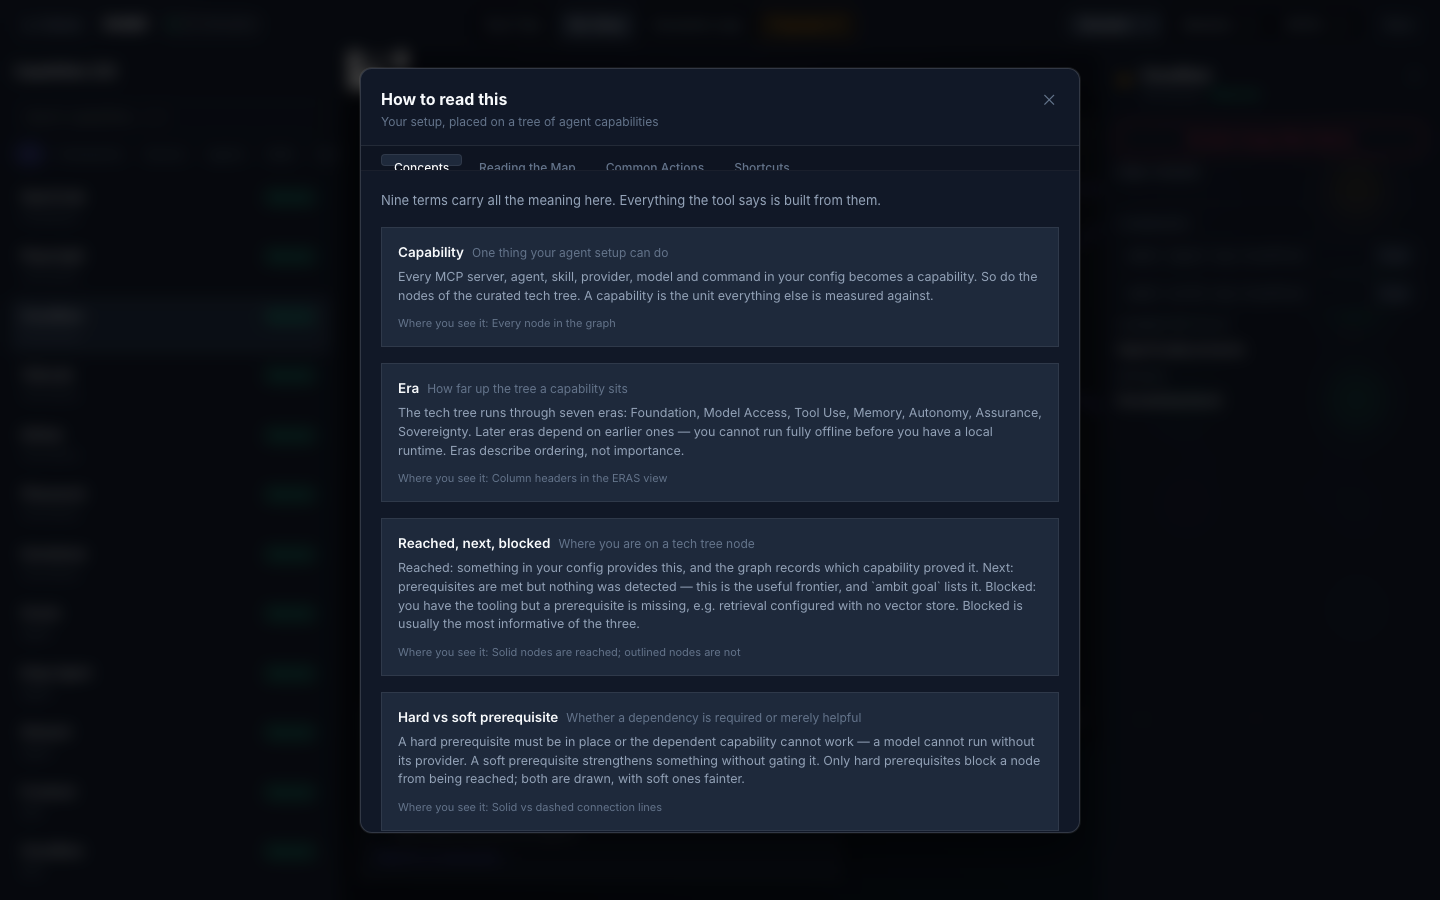
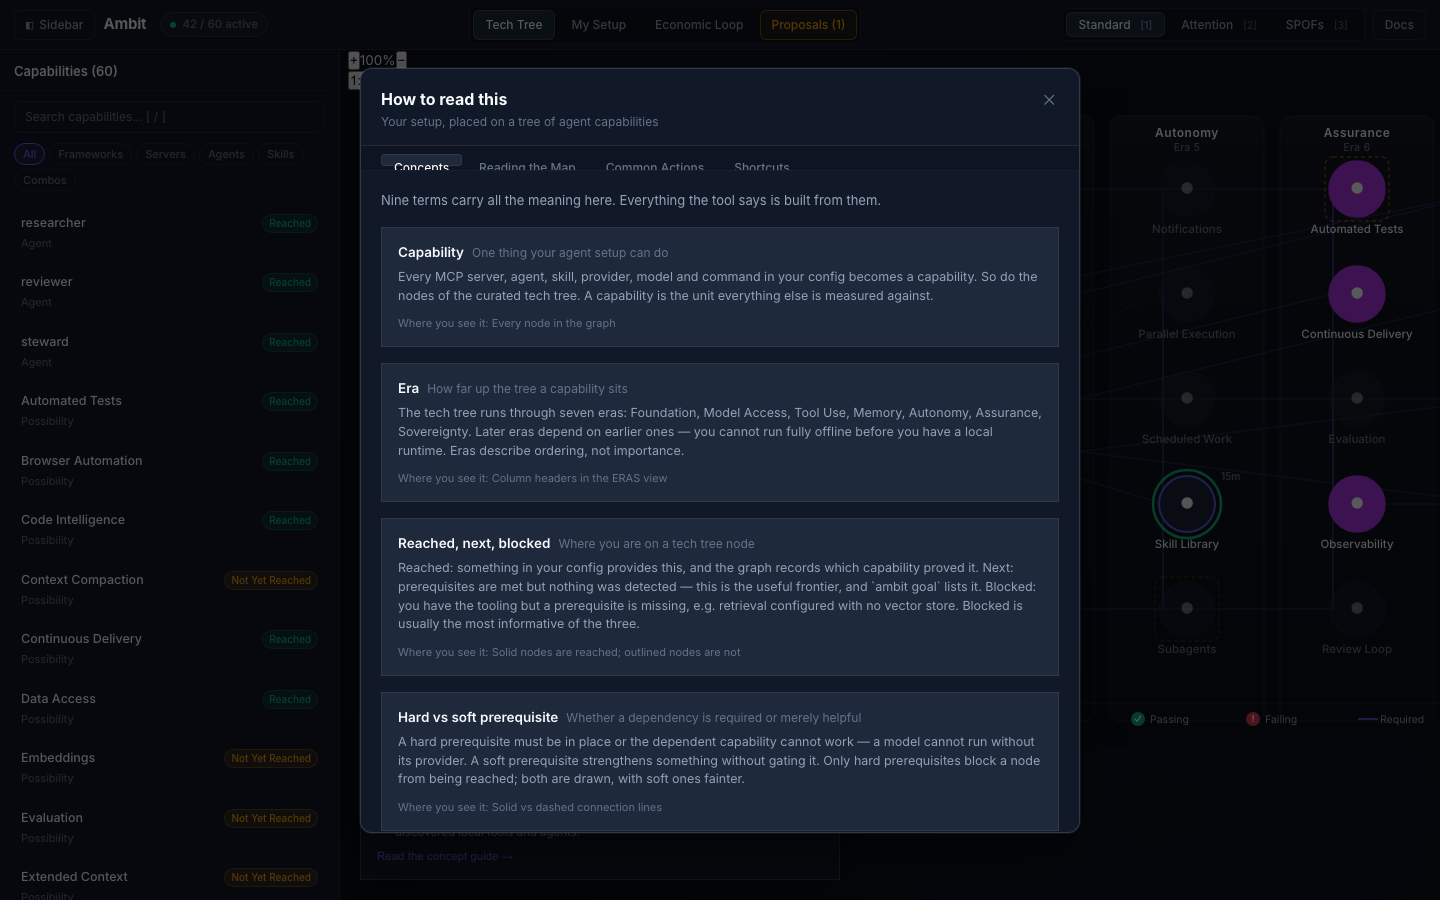
Add My Setup screenshot; update capture script
Insert the My Setup screenshot into the README and replace several demo assets (screenshots & gifs). Tweak scripts/capture-browser-shots.ts to stop using a temporary Chrome profile (remove tmpdir/mkdtemp/rmSync) and add a comment explaining the change to avoid Chrome hanging. Also add a dedicated capture for ?demo=1&view=config and renumbered comments for the other shots.

diff --git a/scripts/capture-browser-shots.ts b/scripts/capture-browser-shots.ts
@@ -1,6 +1,5 @@
 import { spawn, execSync } from 'node:child_process';
-import { existsSync, copyFileSync, mkdtempSync, rmSync } from 'node:fs';
-import { tmpdir } from 'node:os';
+import { existsSync, copyFileSync } from 'node:fs';
 import { join } from 'node:path';
 
 const CHROME_PATH = '/Applications/Google Chrome.app/Contents/MacOS/Google Chrome';
@@ -33,7 +32,11 @@ async function captureShot(
   delayMs = 2500
 ) {
   console.log(`📸 Capturing: ${outFile} (${width}x${height})...`);
-  const tmpProfile = mkdtempSync(join(tmpdir(), 'ambit-chrome-'));
+  // Deliberately no --user-data-dir: Chrome writes the screenshot and then
+  // never exits when pointed at a fresh profile, so every shot would burn the
+  // timeout below and land in the fallback, overwriting a good capture with a
+  // pre-render one. Sequential runs on the default profile do not collide, and
+  // the bytes come out identical either way.
   try {
     const cmd = `"${CHROME_PATH}" --headless=new --disable-gpu --no-sandbox --no-first-run --hide-scrollbars --window-size=${width},${height} --virtual-time-budget=${delayMs} --timeout=15000 --screenshot="${outFile}" "${url}"`;
     execSync(cmd, { stdio: 'pipe', timeout: 20000 });
@@ -44,10 +47,6 @@ async function captureShot(
     try {
       execSync(fallbackCmd, { stdio: 'pipe', timeout: 15000 });
       console.log(`✅ Saved ${outFile} via fallback`);
-    } catch {}
-  } finally {
-    try {
-      rmSync(tmpProfile, { recursive: true, force: true });
     } catch {}
   }
 }
@@ -81,11 +80,18 @@ async function main() {
       3500
     );
 
-    // No My Setup capture: ?demo=1 short-circuits both loaders, so the tab
-    // only moves the nav highlight — the canvas stays the seeded demo graph.
-    // A second shot of it was a pixel-for-pixel duplicate of screenshot-tree.
+    // 2. My Setup (1440x900). ?view=config is load-bearing: ?demo=1 alone now
+    // lands on the tree, and this shot was a pixel-for-pixel duplicate of
+    // screenshot-tree back when the two tabs shared one seeded dataset.
+    await captureShot(
+      `${BASE_URL}/?demo=1&view=config`,
+      join(ASSETS_DIR, 'screenshot-config.png'),
+      1440,
+      900,
+      3500
+    );
 
-    // 2. Docs Modal (1440x900)
+    // 3. Docs Modal (1440x900)
     await captureShot(
       `${BASE_URL}/?demo=1&docs=open`,
       join(ASSETS_DIR, 'screenshot-docs.png'),
@@ -94,7 +100,7 @@ async function main() {
       3500
     );
 
-    // 3. Social preview (1280x640)
+    // 4. Social preview (1280x640)
     await captureShot(
       `${BASE_URL}/?demo=1&view=tree`,
       join(ASSETS_DIR, 'ambit-social-preview.png'),

diff --git a/README.md b/README.md
@@ -56,6 +56,11 @@ Four of them carry most of the meaning, in the terminal and on the map alike.
 
 The [hosted demo](https://zz-plant.github.io/ambit/?demo=1) runs on example data and installs nothing. Inspecting your own machine needs a local checkout.
 
+<div align="center">
+<img src="docs/assets/screenshot-config.png" alt="The My Setup view: MCP servers, agents, and models read from local config, drawn as nodes in domain columns" width="900">
+<br><sub>My Setup is the same map built from discovered config rather than the curated tree — every server, agent, and model found on the machine, placed in its domain</sub>
+</div>
+
 ### Option A — full install (CLI, engine, visualizer)
 
 ```bash
